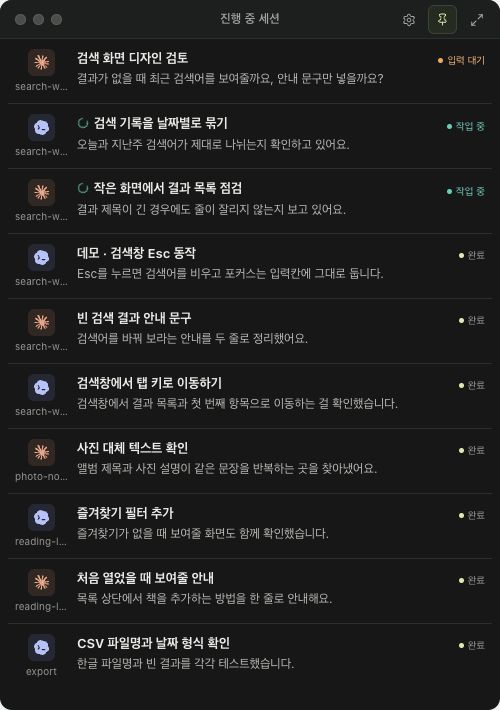
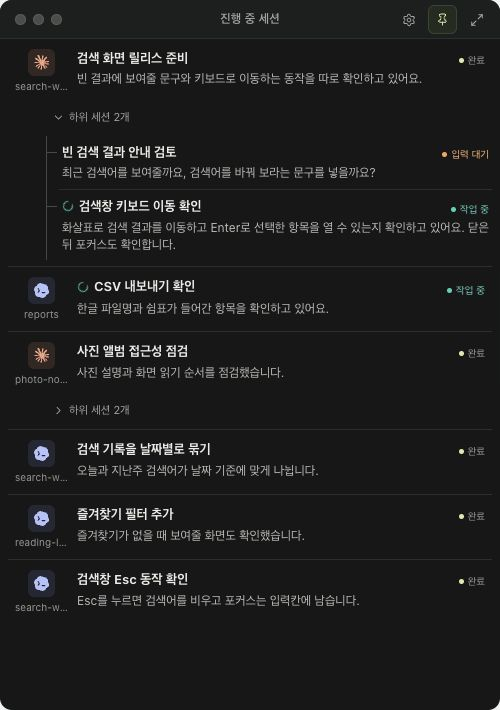
Refresh Offtab screenshots with Claude child sessions

diff --git a/docs/index.html b/docs/index.html
@@ -141,8 +141,8 @@
         <p class="system">Apple Silicon · macOS 14 이상 권장 · v0.5.5 프리뷰</p>
       </div>
       <figure class="screen screen--compact">
-        <a href="assets/offtab-compact.webp" aria-label="최소화 화면 크게 보기">
-          <img src="assets/offtab-compact.webp" width="500" height="710" alt="입력 대기, 작업 중, 완료 상태가 표시된 Offtab의 작은 세션 창">
+        <a href="assets/offtab-compact.webp?v=43172430" aria-label="최소화 화면 크게 보기">
+          <img src="assets/offtab-compact.webp?v=43172430" width="500" height="710" alt="입력 대기와 작업 중인 Claude 하위 세션이 부모 채팅 아래 펼쳐진 Offtab 작은 창">
         </a>
         <figcaption><strong>최소화 화면</strong> · 다른 창 위에 고정할 수 있어요.</figcaption>
       </figure>
@@ -163,10 +163,10 @@
         </dl>
       </div>
       <figure class="screen">
-        <a href="assets/offtab-full.webp" aria-label="전체 창 크게 보기">
-          <img src="assets/offtab-full.webp" width="1040" height="740" loading="lazy" alt="서비스별 필터와 제목, 프로젝트, 대화 검색이 있는 Offtab 전체 창">
+        <a href="assets/offtab-full.webp?v=214022d7" aria-label="전체 창 크게 보기">
+          <img src="assets/offtab-full.webp?v=214022d7" width="1040" height="740" loading="lazy" alt="서비스 필터와 펼쳐진 Claude 하위 세션, 접힌 하위 세션 그룹이 보이는 Offtab 전체 창">
         </a>
-        <figcaption><strong>전체 창</strong> · 두 화면 모두 예시 채팅 10개로 찍었습니다.</figcaption>
+        <figcaption><strong>전체 창</strong> · 두 화면 모두 Claude 하위 세션을 포함한 예시 채팅 10개로 찍었습니다.</figcaption>
       </figure>
     </section>
 

diff --git a/README.md b/README.md
@@ -21,7 +21,7 @@ Apple Silicon Mac · macOS 14 이상 권장 · v0.5.5 프리뷰
 
 핀을 켜서 다른 창 위에 띄워두세요. 입력이나 승인이 필요한 채팅은 위로 올라옵니다. 백그라운드에서 끝난 작업도 결과를 읽을 때까지 남고, 읽은 뒤 한 시간 동안 새 작업이 없으면 작은 창에서 빠집니다.
 
-채팅을 누르면 Codex나 Claude Desktop에서 원래 대화가 열립니다. 지원되는 Terminal·iTerm2 세션은 실행 중인 원래 탭으로 이동합니다. 한동안 숨길 채팅은 우클릭해 **목록에서 제외**를 선택하세요. 직접 새 메시지를 보내면 다시 표시됩니다. [최소화 화면 보기](docs/assets/offtab-compact.webp)
+채팅을 누르면 Codex나 Claude Desktop에서 원래 대화가 열립니다. 지원되는 Terminal·iTerm2 세션은 실행 중인 원래 탭으로 이동합니다. 한동안 숨길 채팅은 우클릭해 **목록에서 제외**를 선택하세요. 직접 새 메시지를 보내면 다시 표시됩니다. [최소화 화면 보기](docs/assets/offtab-compact.webp?v=43172430)
 
 ### 전체 창에서 지난 채팅 찾기
 
@@ -29,9 +29,9 @@ Apple Silicon Mac · macOS 14 이상 권장 · v0.5.5 프리뷰
 
 Claude Desktop에서 별도로 시작한 하위 세션은 두 화면 모두에서 부모 채팅 아래에 표시됩니다. 하위 세션에는 제목과 상태, 최근 메시지가 최대 세 줄까지 표시됩니다. 작업 폴더가 부모와 다르면 폴더명도 표시됩니다. 하위 세션이 두 개 이상이면 목록을 접고 펼칠 수 있습니다. 작업 중이거나 입력·승인을 기다리는 하위 세션이 있으면 기본으로 펼쳐집니다.
 
-![Offtab 전체 창에서 Codex와 Claude Code의 최근 세션을 검색하는 화면](docs/assets/offtab-full.webp)
+![Offtab 전체 창에서 Claude 하위 세션을 펼치고 접은 화면](docs/assets/offtab-full.webp?v=214022d7)
 
-*예시 채팅 10개로 찍은 화면입니다.*
+*Claude 하위 세션을 포함한 예시 채팅 10개로 찍은 화면입니다.*
 
 ## 문제 해결
 
